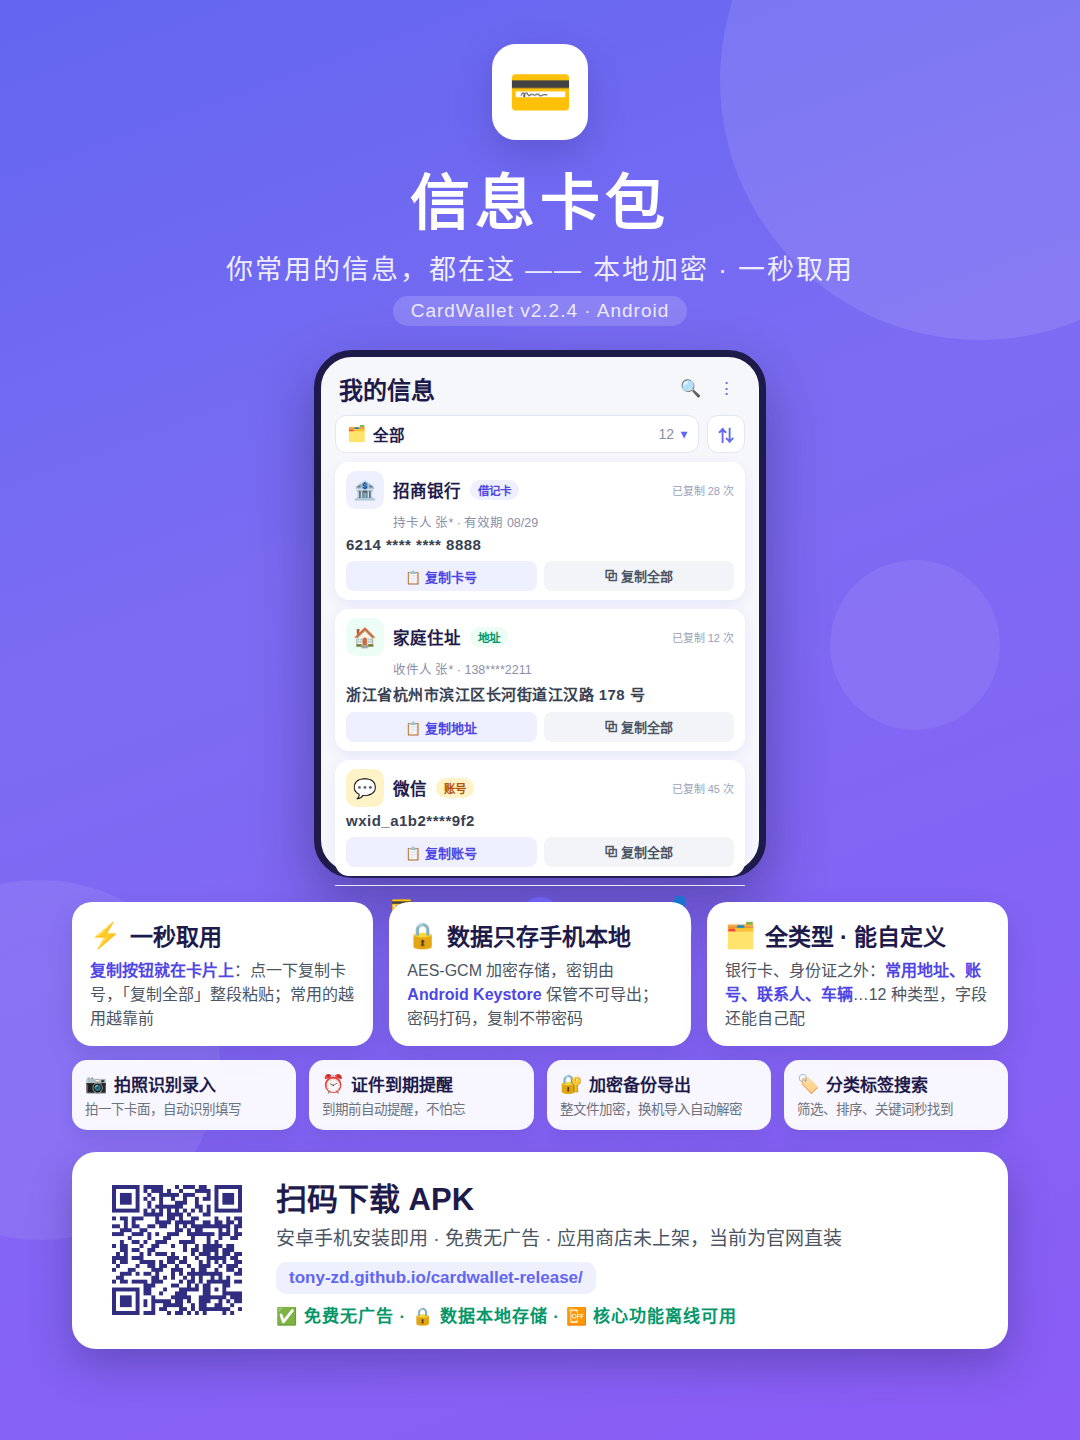
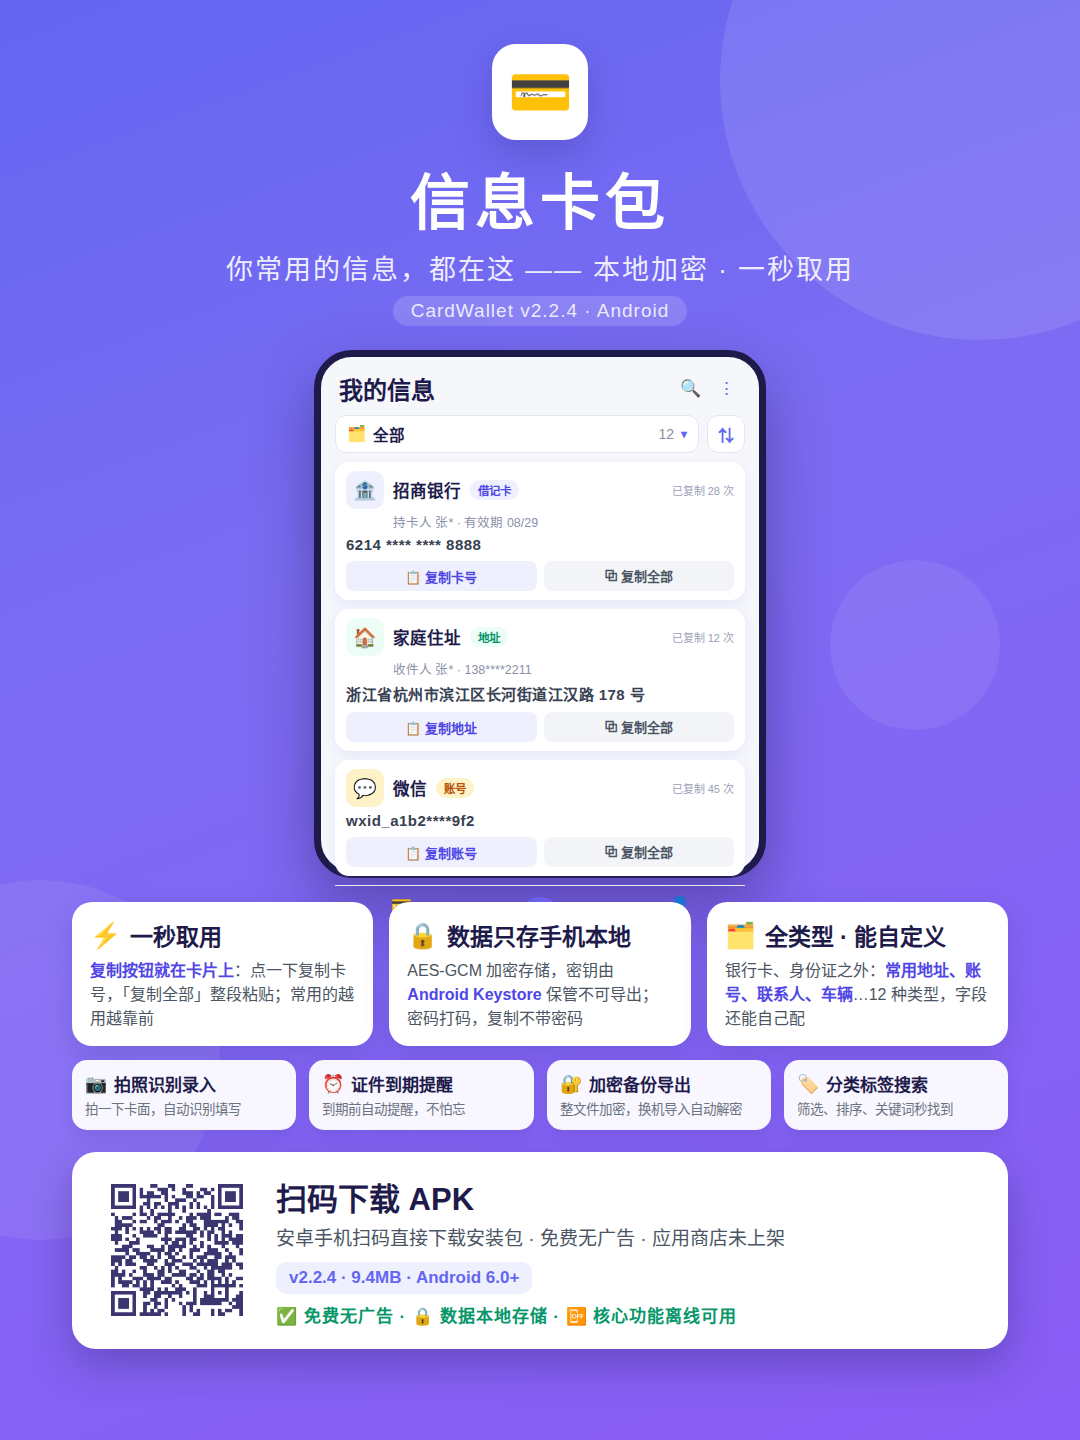
海报二维码改指 Gitee 高速下载直链（扫码直接下载 APK，跳过慢页面）；底部文案同步为版本信息；软文描述修正

Changed region(s): [[0.275, 0.8438, 0.7944, 0.9062], [0.0917, 0.8125, 0.2444, 0.9375]]

diff --git a/promo/poster.html b/promo/poster.html
@@ -242,8 +242,8 @@
       <img class="qr" src="qr-download.png" alt="下载二维码">
       <div class="dl-txt">
         <div class="dl-h">扫码下载 APK</div>
-        <div class="dl-s">安卓手机安装即用 · 免费无广告 · 应用商店未上架，当前为官网直装</div>
-        <div class="dl-url">tony-zd.github.io/cardwallet-release/</div>
+        <div class="dl-s">安卓手机扫码直接下载安装包 · 免费无广告 · 应用商店未上架</div>
+        <div class="dl-url">v2.2.4 · 9.4MB · Android 6.0+</div>
         <div class="dl-badges">✅ 免费无广告 · 🔒 数据本地存储 · 📴 核心功能离线可用</div>
       </div>
     </div>

diff --git a/promo/小红书软文.md b/promo/小红书软文.md
@@ -1,7 +1,8 @@
 # 信息卡包 · 小红书发布软文
 
 > 配套海报：`poster.png`（1080×1440，3:4 竖版，小红书标准比例）
-> 下载页：https://tony-zd.github.io/cardwallet-release/ （海报底部二维码同址）
+> 海报底部二维码 = Gitee 高速下载直链（扫码直接下载 APK）
+> 下载页：https://tony-zd.github.io/cardwallet-release/ （评论区置顶用）
 
 ---
 
